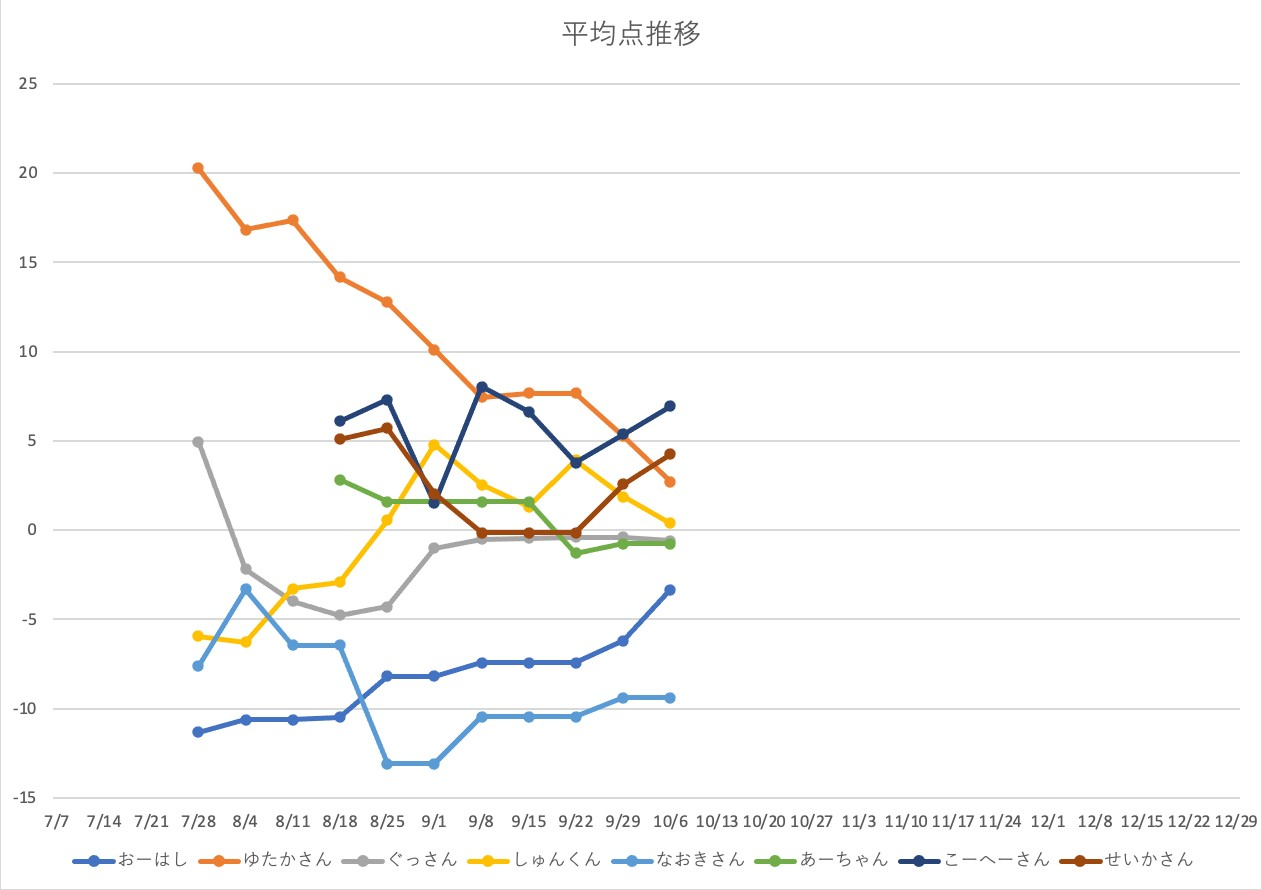
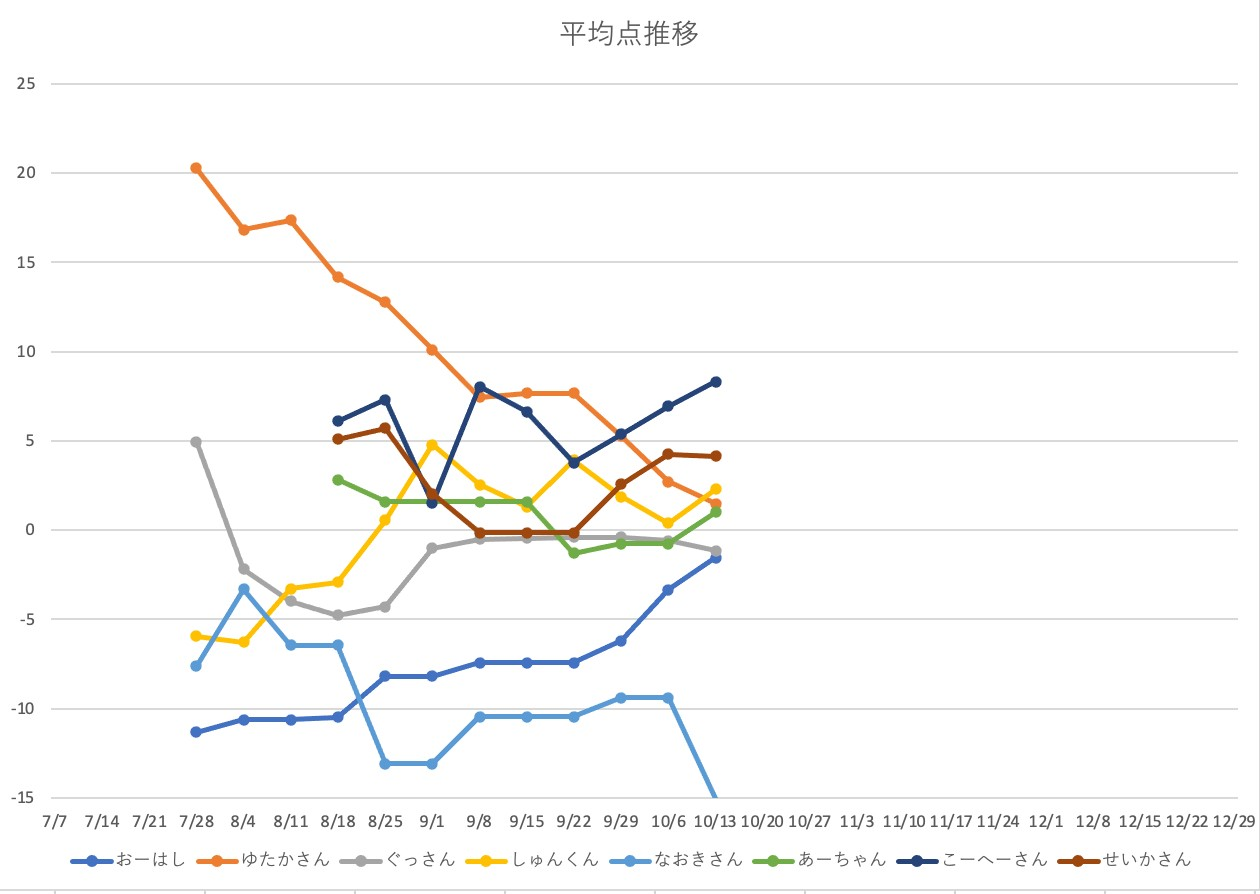
UPDATE

diff --git a/app.py b/app.py
@@ -9,12 +9,12 @@ st.set_page_config(
 st.title('東中野 Mリーグ')
 st.image("top.jpg")
 st.header("順位表 ")
-st.write('(10月7日更新)')
+st.write('(10月17日更新)')
 
 data = {
-    '雀士名': ['コペ', 'せいか', 'ゆたか', 'しゅん', 'ぐっさん', 'あーちゃん', 'おーはし', 'なおき', 'こじ'],
-    '平均順位': [2.29, 2.48, 2.39, 2.53, 2.53, 2.45, 2.49, 2.81, 3.25],
-    '平均得点': [6.94, 4.24, 2.71, -0.01, -0.71, -0.77, -1.40, -9.39, -30.33]
+    '雀士名': ['コペ', 'せいか', 'しゅん', 'ゆたか', 'あーちゃん', 'おーはし', 'ぐっさん', 'なおき', 'みぞべ', 'こじ'],
+    '平均順位': [2.26, 2.45, 2.46, 2.41, 2.39, 2.52, 2.56, 3.04, 3.00, 3.25],
+    '平均得点': [8.30, 4.14, 2.26, 1.74, 1.01, -1.55, -1.69, -15.03, -15.52, -30.33]
 }
 
 df = pd.DataFrame(data, index=['1位','2位','3位', '4位', '5位', '6位', '7位', '8位', '-'])
